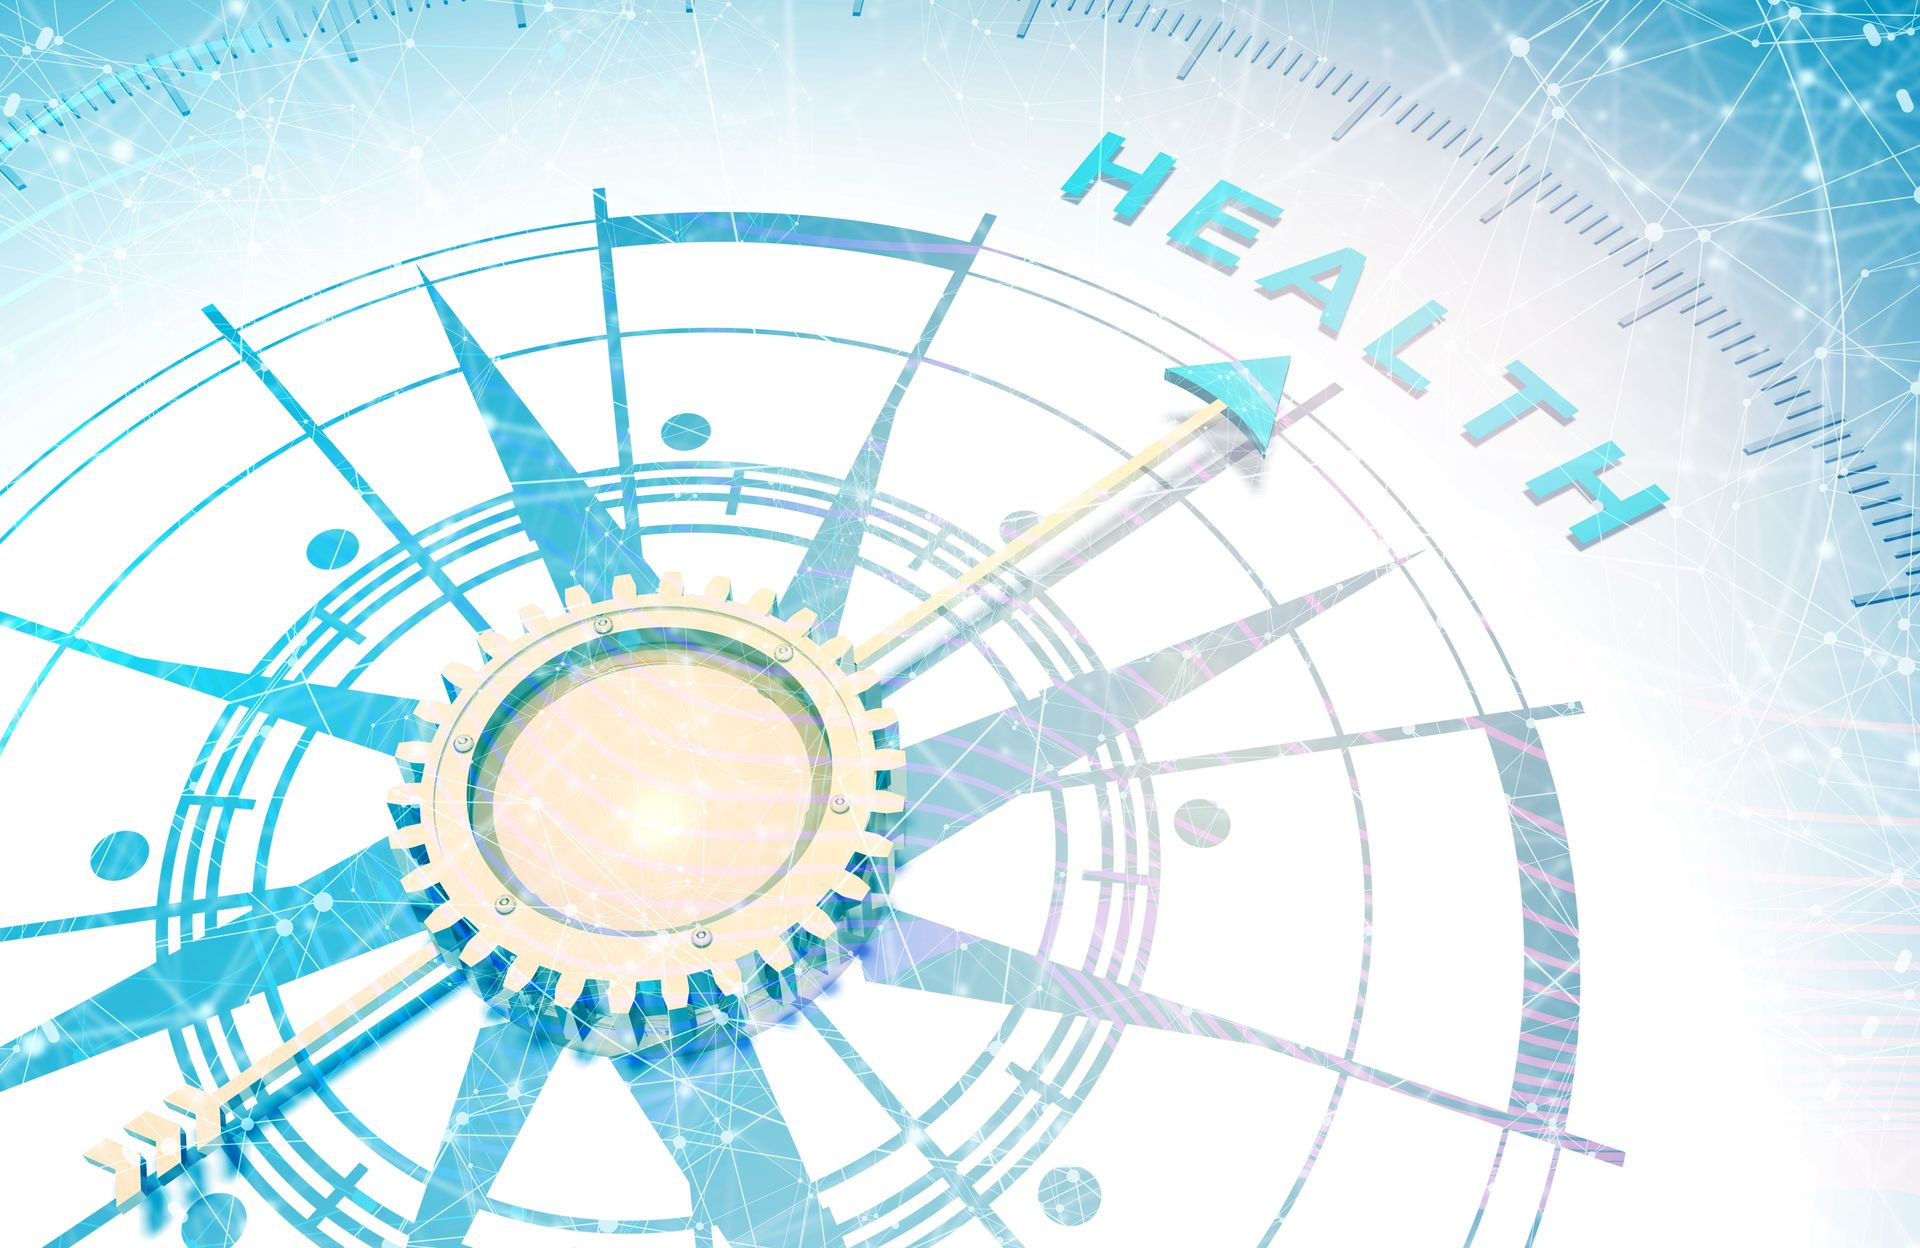
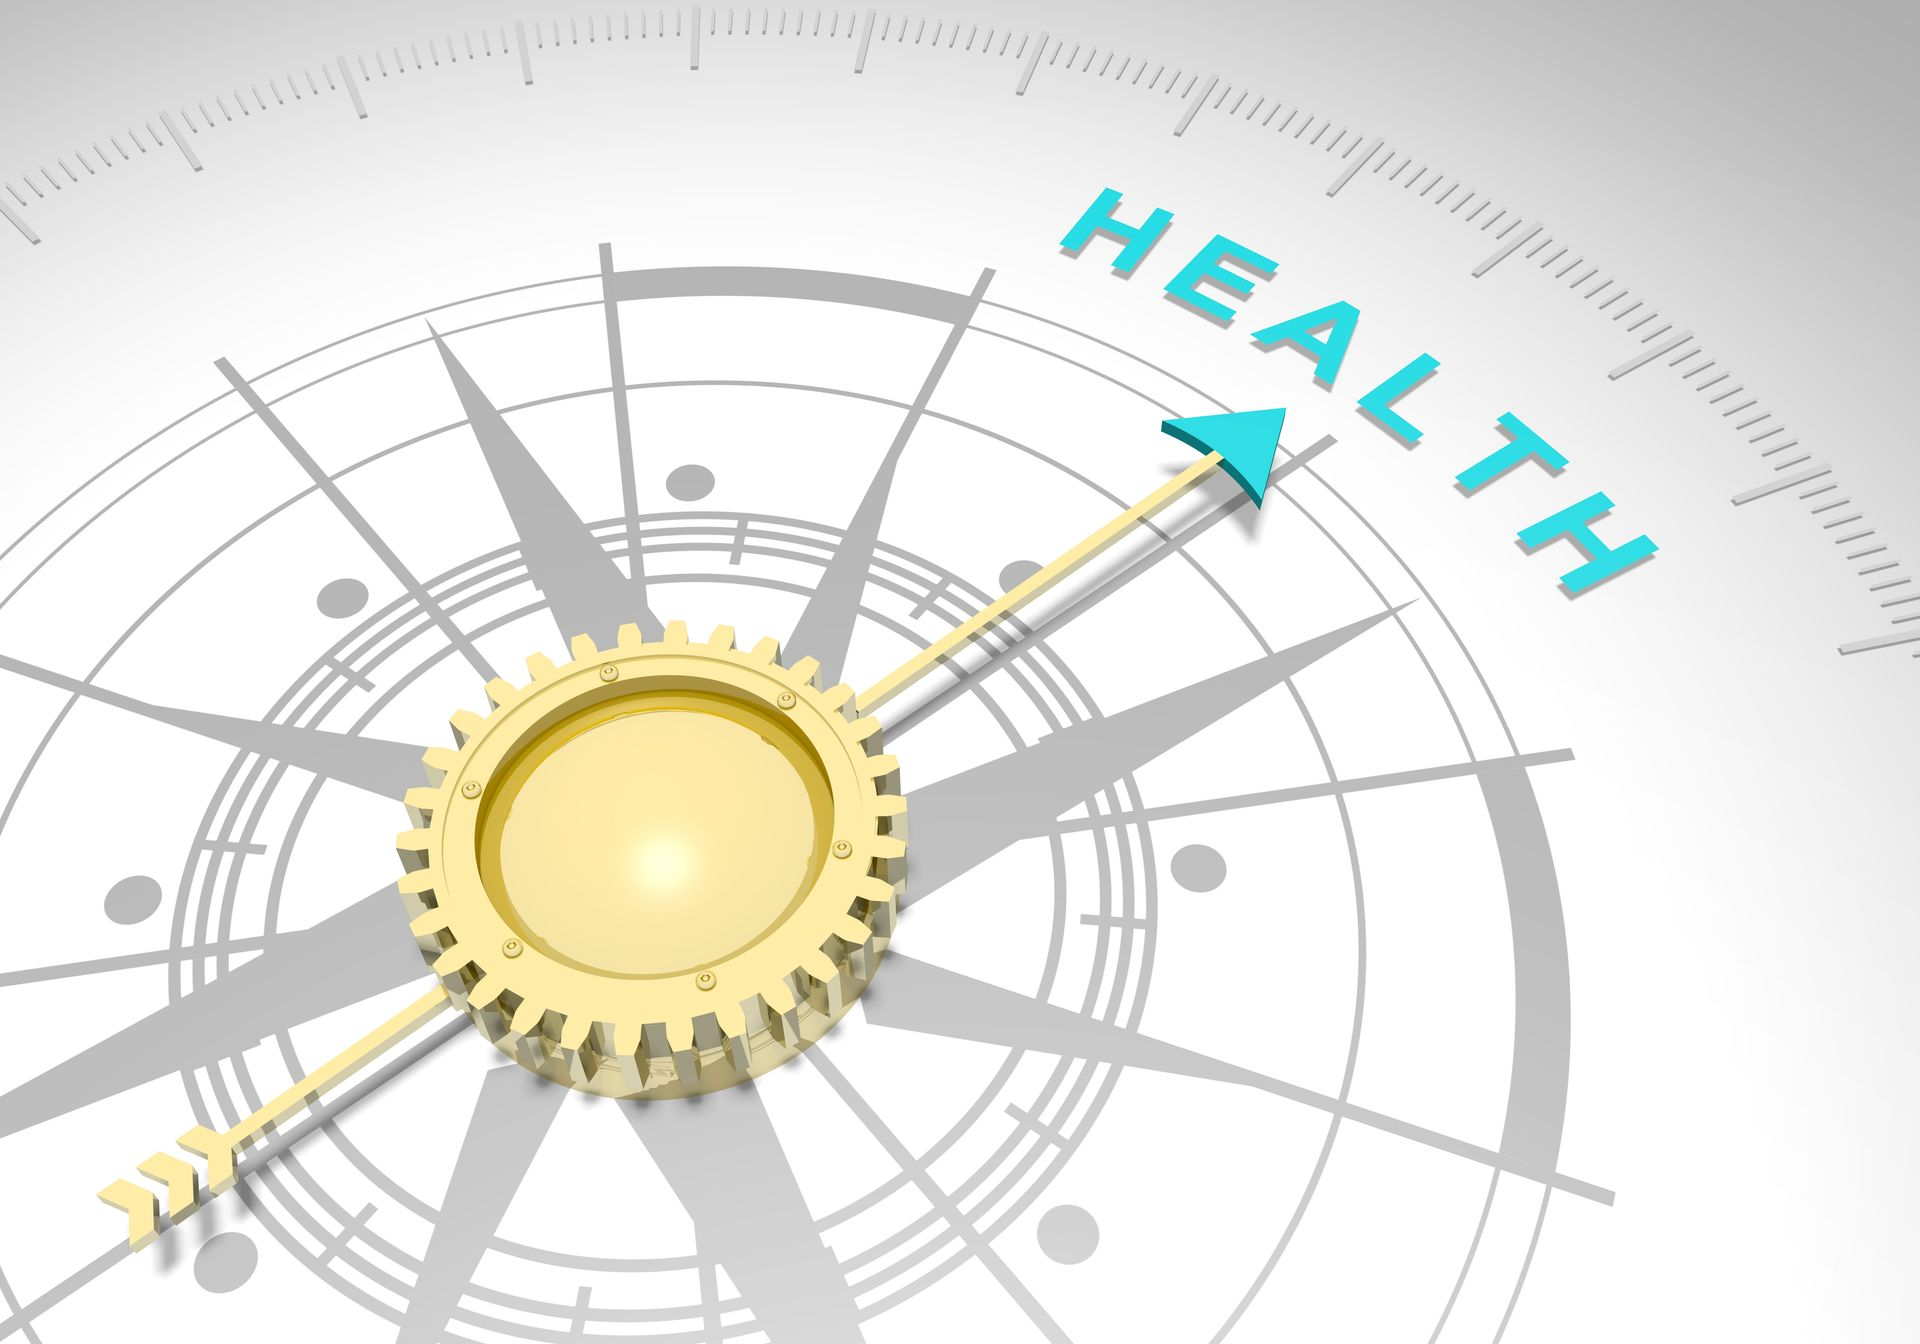
new hero

diff --git a/scripts/optimize-images.js b/scripts/optimize-images.js
@@ -1,7 +1,7 @@
 const sharp = require('sharp');
 const path = require('path');
 
-const inputPath = 'public/images/iStock-1295563468-XL.jpg';
+const inputPath = 'public/images/iStock-1262287062-XL.jpg';//iStock-1295563468-XL.jpg';
 const outputDir = 'public/images/hero';
 
 // Ensure output directory exists
